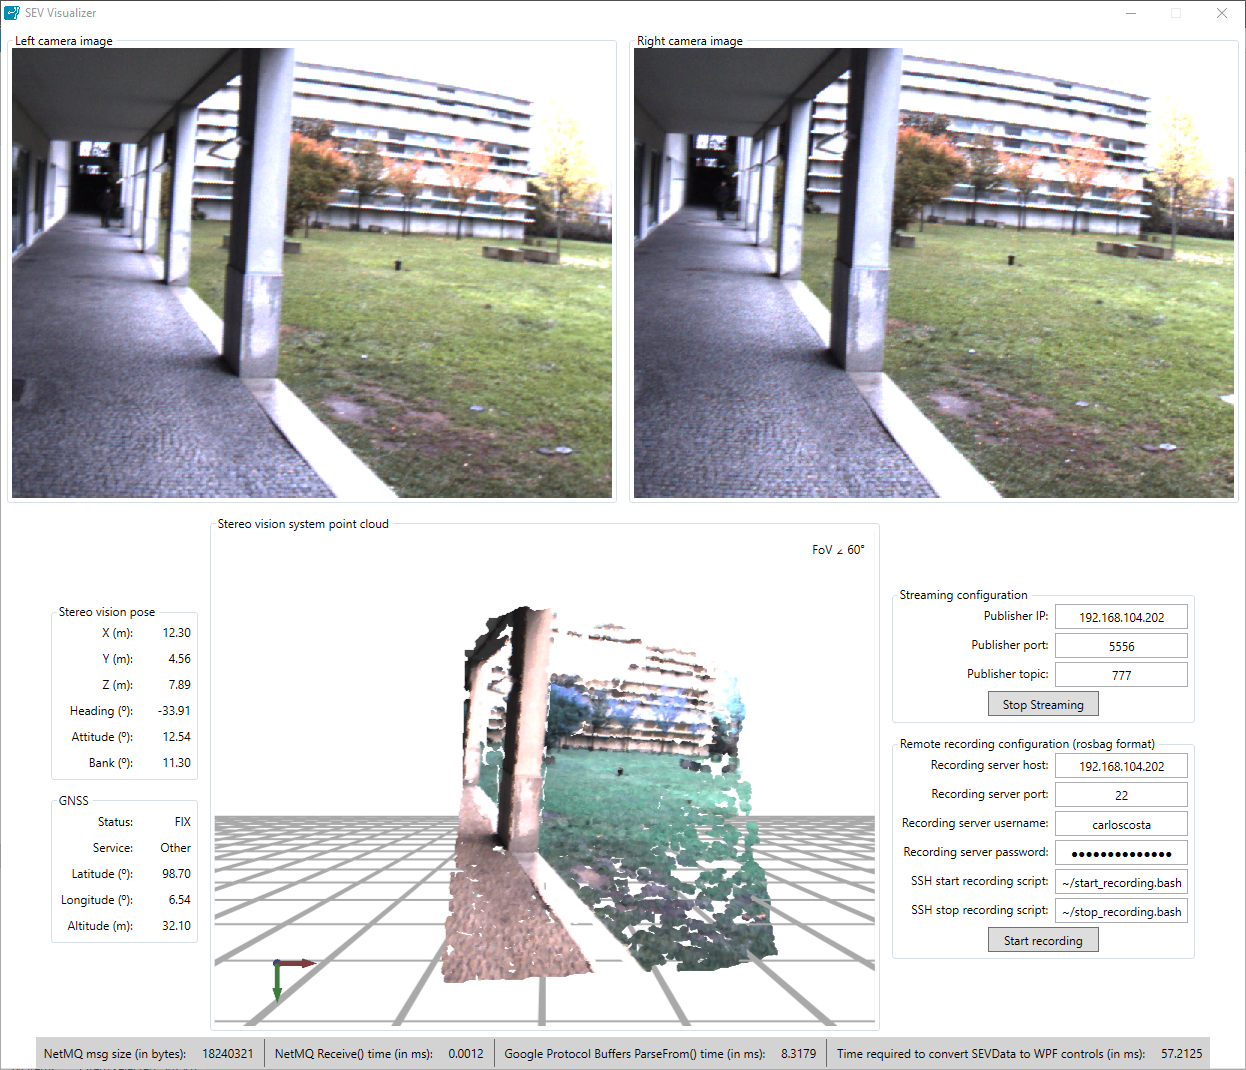
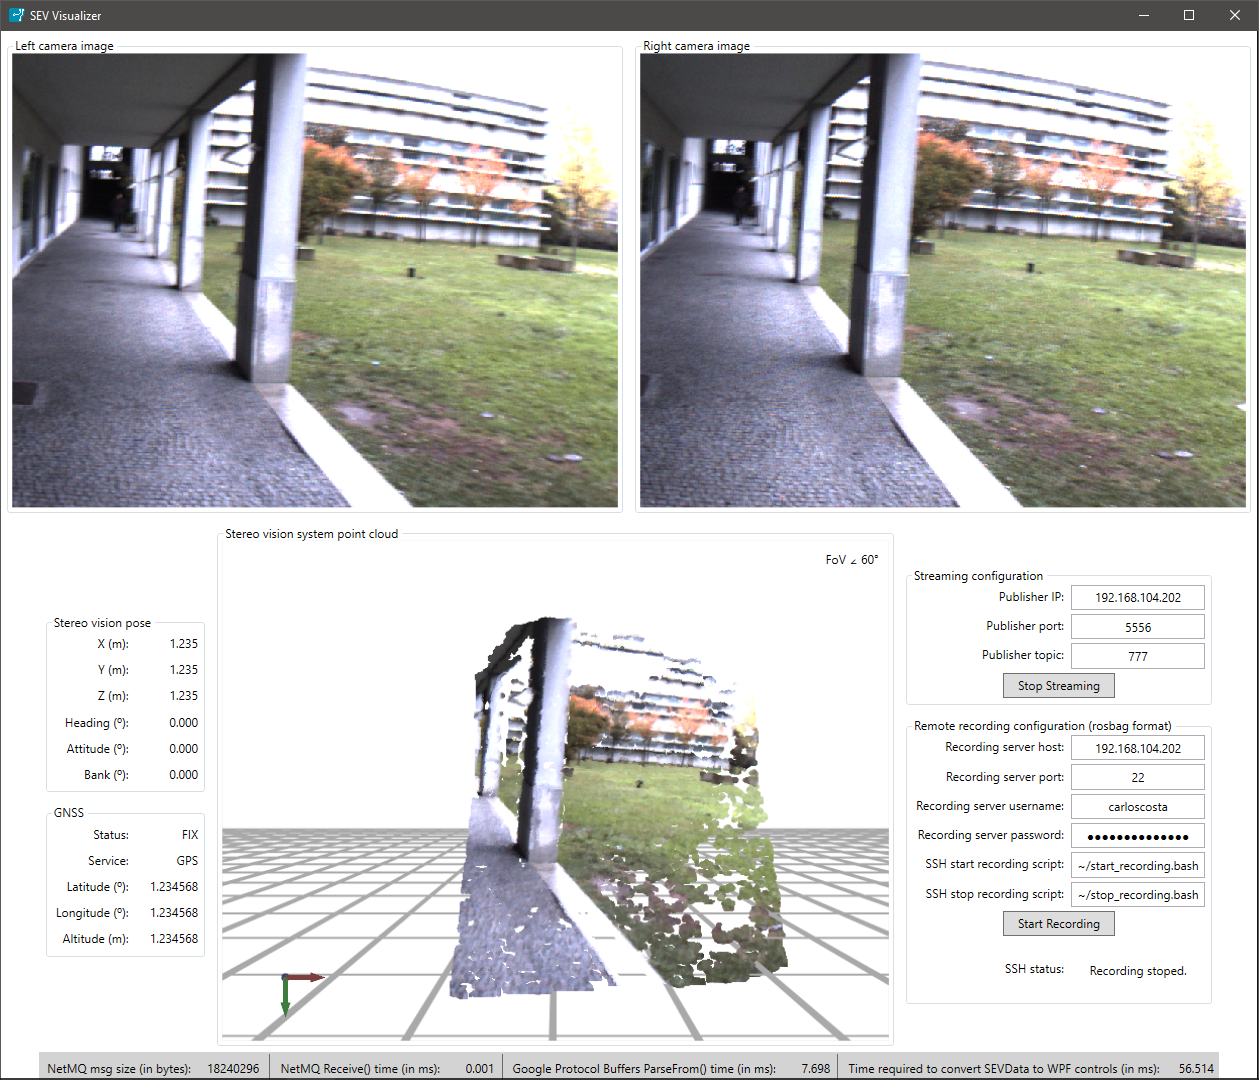
Added ssh status to GUI. Changed pointcloud parser from rgb to bgr.

diff --git a/RustBotCSharp.GUI/MainWindow.xaml b/RustBotCSharp.GUI/MainWindow.xaml
@@ -14,7 +14,7 @@
 
     <Window.Resources>
         <Style x:Key="TextBoxFixedWidth" TargetType="{x:Type TextBox}">
-            <Setter Property="Width" Value="55"/>
+            <Setter Property="Width" Value="66"/>
             <Setter Property="IsReadOnlyCaretVisible" Value="True"/>
             <Setter Property="HorizontalAlignment" Value="Left"/>
             <Setter Property="VerticalAlignment" Value="Center"/>
@@ -93,27 +93,27 @@
                         <StackPanel Orientation="Vertical">
                             <StackPanel Orientation="Horizontal" HorizontalAlignment="Right">
                                 <Label>X (m):</Label>
-                                <TextBox Text="{Binding StereoSystemPoseModel.X, StringFormat=N2}" Style="{StaticResource TextBoxFixedWidth}"/>
+                                <TextBox Text="{Binding StereoSystemPoseModel.X, StringFormat=N3}" Style="{StaticResource TextBoxFixedWidth}"/>
                             </StackPanel>
                             <StackPanel Orientation="Horizontal" HorizontalAlignment="Right">
                                 <Label>Y (m):</Label>
-                                <TextBox Text="{Binding StereoSystemPoseModel.Y, StringFormat=N2}" Style="{StaticResource TextBoxFixedWidth}"/>
+                                <TextBox Text="{Binding StereoSystemPoseModel.Y, StringFormat=N3}" Style="{StaticResource TextBoxFixedWidth}"/>
                             </StackPanel>
                             <StackPanel Orientation="Horizontal" HorizontalAlignment="Right">
                                 <Label>Z (m):</Label>
-                                <TextBox Text="{Binding StereoSystemPoseModel.Z, StringFormat=N2}" Style="{StaticResource TextBoxFixedWidth}"/>
+                                <TextBox Text="{Binding StereoSystemPoseModel.Z, StringFormat=N3}" Style="{StaticResource TextBoxFixedWidth}"/>
                             </StackPanel>
                             <StackPanel Orientation="Horizontal" HorizontalAlignment="Right">
                                 <Label>Heading (º):</Label>
-                                <TextBox Text="{Binding StereoSystemPoseModel.Heading, StringFormat=N2}" Style="{StaticResource TextBoxFixedWidth}"/>
+                                <TextBox Text="{Binding StereoSystemPoseModel.Heading, StringFormat=N3}" Style="{StaticResource TextBoxFixedWidth}"/>
                             </StackPanel>
                             <StackPanel Orientation="Horizontal" HorizontalAlignment="Right">
                                 <Label>Attitude (º):</Label>
-                                <TextBox Text="{Binding StereoSystemPoseModel.Attitude, StringFormat=N2}" Style="{StaticResource TextBoxFixedWidth}"/>
+                                <TextBox Text="{Binding StereoSystemPoseModel.Attitude, StringFormat=N3}" Style="{StaticResource TextBoxFixedWidth}"/>
                             </StackPanel>
                             <StackPanel Orientation="Horizontal" HorizontalAlignment="Right">
                                 <Label>Bank (º):</Label>
-                                <TextBox Text="{Binding StereoSystemPoseModel.Bank, StringFormat=N2}" Style="{StaticResource TextBoxFixedWidth}"/>
+                                <TextBox Text="{Binding StereoSystemPoseModel.Bank, StringFormat=N3}" Style="{StaticResource TextBoxFixedWidth}"/>
                             </StackPanel>
                         </StackPanel>
                     </GroupBox>
@@ -129,15 +129,15 @@
                             </StackPanel>
                             <StackPanel Orientation="Horizontal" HorizontalAlignment="Right">
                                 <Label>Latitude (º):</Label>
-                                <TextBox Text="{Binding GNSSModel.Latitude, StringFormat=N2}" Style="{StaticResource TextBoxFixedWidth}"/>
+                                <TextBox Text="{Binding GNSSModel.Latitude, StringFormat=N6}" Style="{StaticResource TextBoxFixedWidth}"/>
                             </StackPanel>
                             <StackPanel Orientation="Horizontal" HorizontalAlignment="Right">
                                 <Label>Longitude (º):</Label>
-                                <TextBox Text="{Binding GNSSModel.Longitude, StringFormat=N2}" Style="{StaticResource TextBoxFixedWidth}"/>
+                                <TextBox Text="{Binding GNSSModel.Longitude, StringFormat=N6}" Style="{StaticResource TextBoxFixedWidth}"/>
                             </StackPanel>
                             <StackPanel Orientation="Horizontal" HorizontalAlignment="Right">
                                 <Label>Altitude (m):</Label>
-                                <TextBox Text="{Binding GNSSModel.Altitude, StringFormat=N2}" Style="{StaticResource TextBoxFixedWidth}"/>
+                                <TextBox Text="{Binding GNSSModel.Altitude, StringFormat=N6}" Style="{StaticResource TextBoxFixedWidth}"/>
                             </StackPanel>
                         </StackPanel>
                     </GroupBox>
@@ -221,6 +221,11 @@
                                     <TextBox Text="{Binding CommunicationsModel.SSHStopRecordCommand, Mode=TwoWay}"/>
                                 </StackPanel>
                                 <Button Name="RecordingButton" Click="RecordingButton_OnClick">Start recording</Button>
+                                <StackPanel Orientation="Horizontal" HorizontalAlignment="Right" VerticalAlignment="Center" Height="60">
+                                    <Label VerticalContentAlignment="Center">SSH status:</Label>
+                                    <TextBox Text="{Binding CommunicationsModel.SSHConnectionModel.Status}" TextWrapping="Wrap" IsReadOnlyCaretVisible="True"
+                                             BorderThickness="0" Height="60" VerticalContentAlignment="Center"/>
+                                </StackPanel>
                             </StackPanel>
                         </GroupBox>
                     </StackPanel>

diff --git a/RustBotCSharp.GUI/MainWindow.xaml.cs b/RustBotCSharp.GUI/MainWindow.xaml.cs
@@ -83,6 +83,7 @@ namespace RustBotCSharp.GUI
 
         public bool InitializeRecording()
         {
+            SEVDataSubscriberWPF.SEVDataModel.CommunicationsModel.SSHConnectionModel.Status = "Initializing recording...";
             try
             {
                 SSHClient = new SshClient(
@@ -92,22 +93,29 @@ namespace RustBotCSharp.GUI
                     Encryption.DecryptString(SEVDataSubscriberWPF.SEVDataModel.CommunicationsModel.SSHConnectionModel.Password, _encryptionKey));
                 SSHClient.ConnectionInfo.Timeout = TimeSpan.FromSeconds(1.0);
                 SSHClient.Connect();
-                if (ExecuteSSHCommand(SEVDataSubscriberWPF.SEVDataModel.CommunicationsModel.SSHStartRecordCommand) == 0)
+
+                int exitStatus = ExecuteSSHCommand(SEVDataSubscriberWPF.SEVDataModel.CommunicationsModel.SSHStartRecordCommand);
+                if (exitStatus == 0)
                 {
                     _recordActive = true;
                     RecordingButton.Content = _activeRecordingText;
+                    SEVDataSubscriberWPF.SEVDataModel.CommunicationsModel.SSHConnectionModel.Status = "Recording started.";
                     return true;
                 }
+
+                SEVDataSubscriberWPF.SEVDataModel.CommunicationsModel.SSHConnectionModel.Status = "Failed to run start recording script with exit code " + exitStatus;
+                return false;
             }
             catch (Exception)
             {
+                SEVDataSubscriberWPF.SEVDataModel.CommunicationsModel.SSHConnectionModel.Status = "Failed to connect to SSH server...";
                 return false;
             }
-            return false;
         }
 
         public bool StopRecording()
         {
+            SEVDataSubscriberWPF.SEVDataModel.CommunicationsModel.SSHConnectionModel.Status = "Stopping recording...";
             int exitStatus = ExecuteSSHCommand(SEVDataSubscriberWPF.SEVDataModel.CommunicationsModel.SSHStopRecordCommand);
             if (exitStatus == 0 || exitStatus == 1)
             {
@@ -115,8 +123,10 @@ namespace RustBotCSharp.GUI
                 RecordingButton.Content = _inactiveRecordingText;
                 SSHClient.Disconnect();
                 SSHClient.Dispose();
+                SEVDataSubscriberWPF.SEVDataModel.CommunicationsModel.SSHConnectionModel.Status = "Recording stopped.";
                 return true;
             }
+            SEVDataSubscriberWPF.SEVDataModel.CommunicationsModel.SSHConnectionModel.Status = "Failed to stop recording with SSH exit code " + exitStatus;
             return false;
         }
 

diff --git a/RustBotCSharp.MessageConverter/PointCloudConverter.cs b/RustBotCSharp.MessageConverter/PointCloudConverter.cs
@@ -57,9 +57,9 @@ namespace RustBotCSharp.MessageConverter
                                 SharpDX.Vector3 pointPosition = new SharpDX.Vector3(xPosition, yPosition, zPosition);
 
                                 Color4 pointColor = new Color4(
-                                (float)pointcloudData[i + rgbOffset] / (float)byte.MaxValue,
-                                (float)pointcloudData[i + rgbOffset + 1] / (float)byte.MaxValue,
                                 (float)pointcloudData[i + rgbOffset + 2] / (float)byte.MaxValue,
+                                (float)pointcloudData[i + rgbOffset + 1] / (float)byte.MaxValue,
+                                (float)pointcloudData[i + rgbOffset] / (float)byte.MaxValue,
                                 1);
 
                                 pointGeometry3D.Indices.Add(pointGeometry3D.Positions.Count);

diff --git a/RustBotCSharp.GUI/SSHConnectionModel.cs b/RustBotCSharp.GUI/SSHConnectionModel.cs
@@ -14,5 +14,7 @@ namespace RustBotCSharp.GUI
         public string Username { get; set; } = "root";
         [XmlAttribute]
         public string Password { get; set; } = "";
+        [XmlIgnore]
+        public string Status { get; set; } = "Idle";
     }
 }
